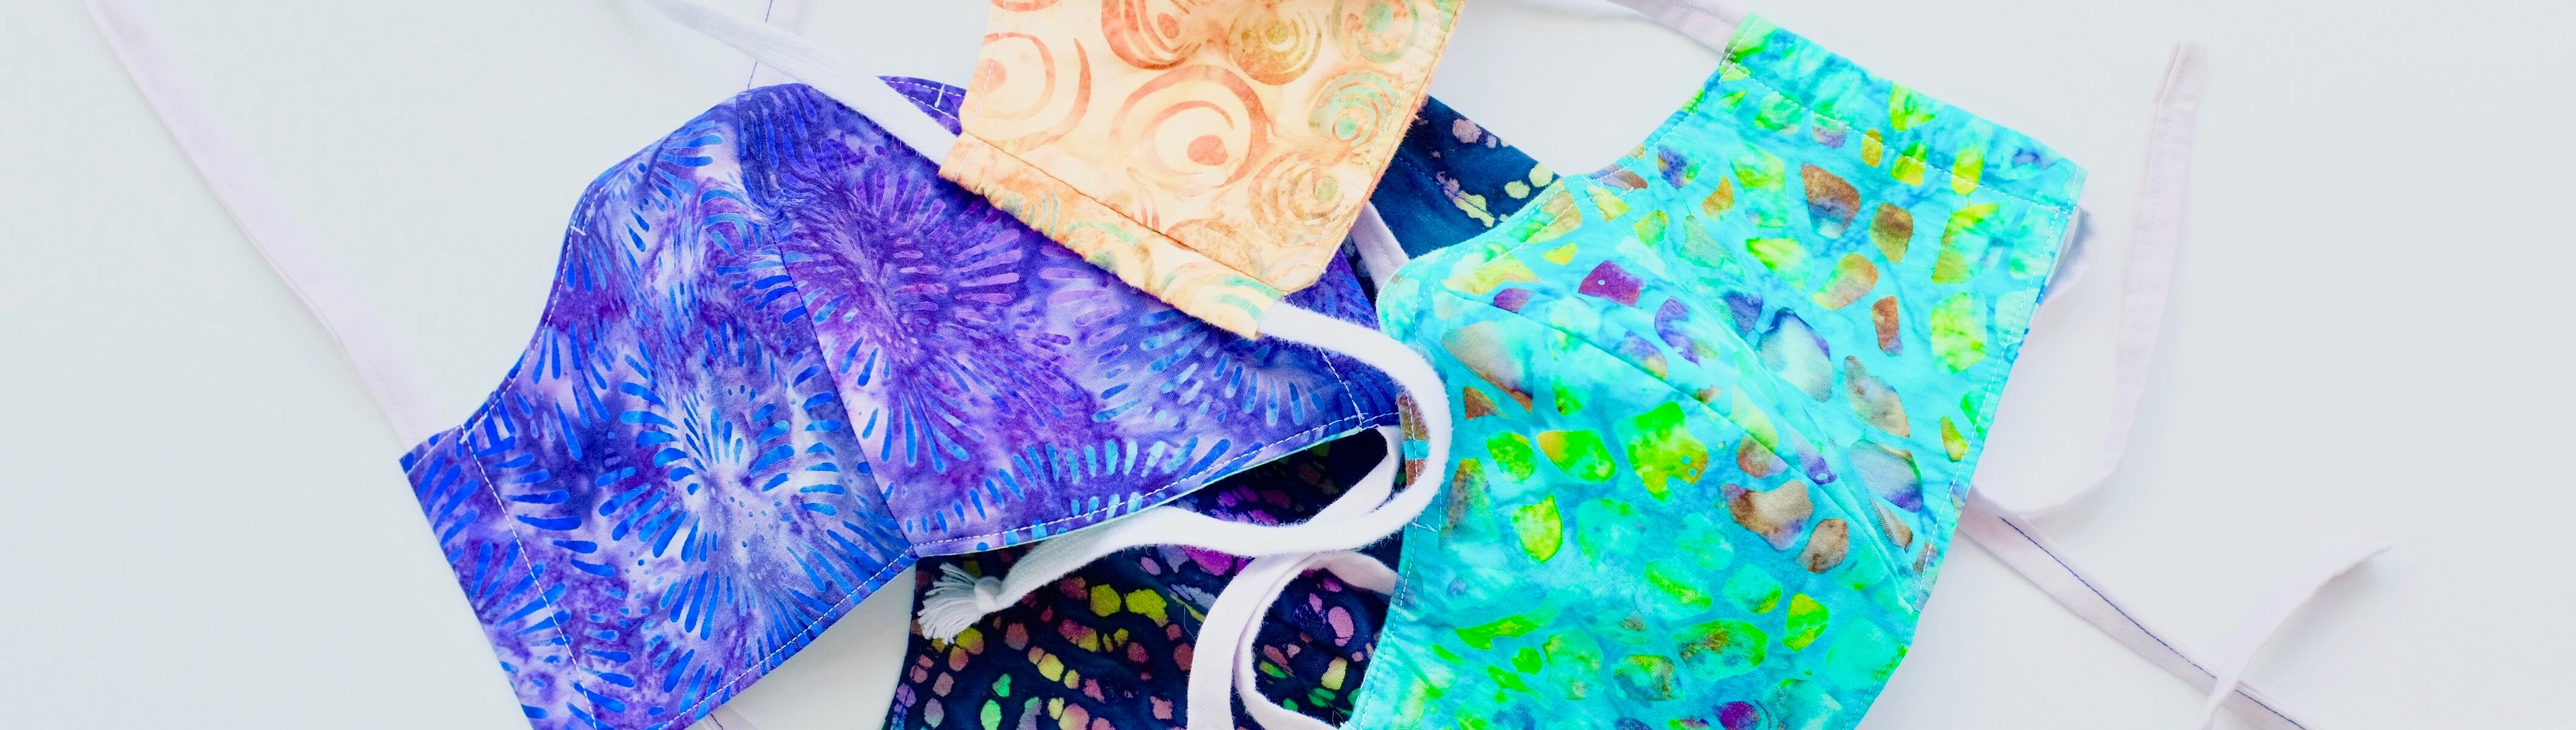
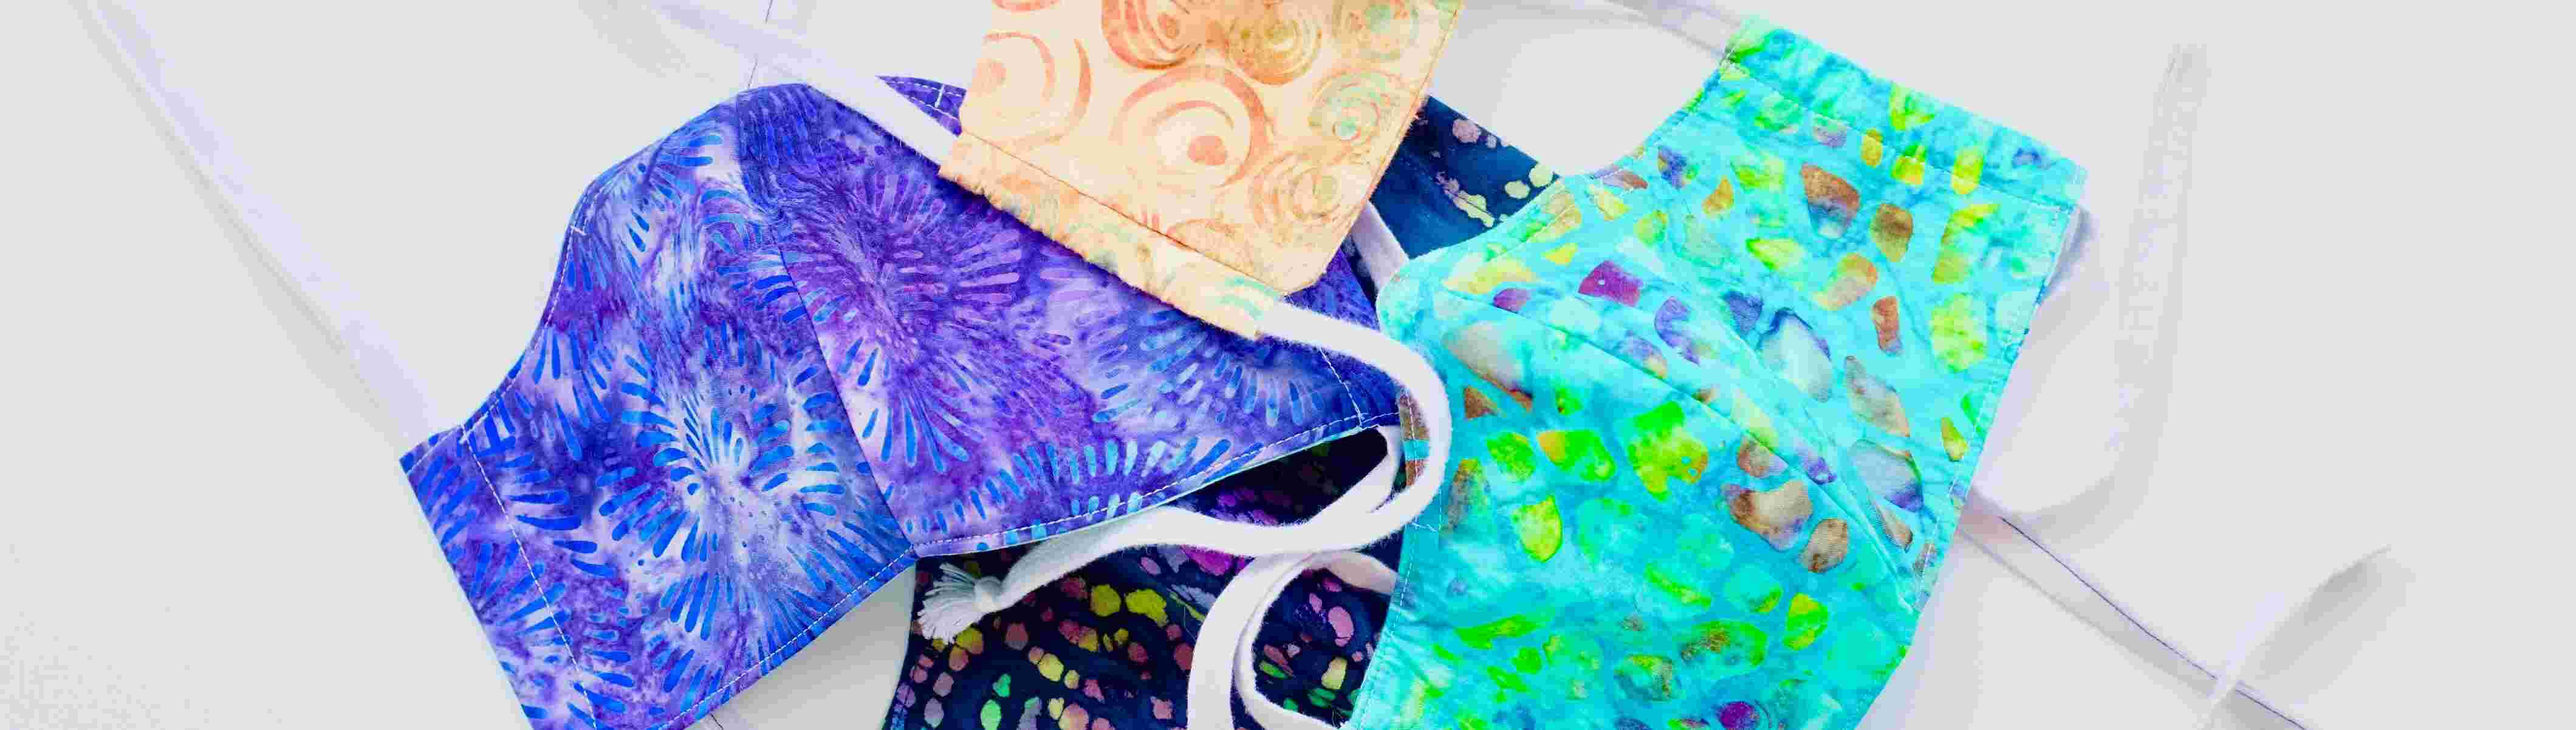
compressed images and added gzip/cache header

diff --git a/src/main/resources/templates/index.html b/src/main/resources/templates/index.html
@@ -16,7 +16,7 @@
                     <img th:src="@{/img/essential.png}" th:width="700" class="img-fluid p-2" alt="photo of text">
                 </div>
                 <div class="col-md m-1 bg-light text-center">
-                    <img th:src="@{/img/mask1.png}" th:width="700" class="img-fluid p-2" alt="photo of a mask">
+                    <img th:src="@{/img/mask1.jpg}" th:width="700" class="img-fluid p-2" alt="photo of a mask">
                 </div>
             </div>
         </div>
@@ -47,7 +47,7 @@
         <div class="container-fluid ">
             <div class="row m-1">
                 <div class="col-md m-1 bg-light text-center">
-                    <img th:src="@{/img/mask2.png}" th:width="700" class="img-fluid p-2" alt="photo of a mask">
+                    <img th:src="@{/img/mask2.jpg}" th:width="700" class="img-fluid p-2" alt="photo of a mask">
                 </div>
 
                 <div class="box1 col-md m-1">

diff --git a/src/main/resources/templates/success.html b/src/main/resources/templates/success.html
@@ -11,7 +11,7 @@
         <div class="container-fluid">
             <div class="row m-1 align-items-center">
                 <div class="bg-light col-md m-1 text-center">
-                    <img th:src="@{/img/mask_photo9.png}" th:width="700" class="img-fluid p-2" alt="photo of text">
+                    <img th:src="@{/img/mask_photo9.jpg}" th:width="700" class="img-fluid p-2" alt="photo of text">
                 </div>
 
                 <div class="col-md m-1 border border-light text-center">

diff --git a/src/main/resources/templates/login.html b/src/main/resources/templates/login.html
@@ -42,7 +42,7 @@
                 </div>
 
                 <div class="bg-light col-md m-1 text-center">
-                    <img th:src="@{/img/mask_photo6.png}" th:width="700" class="img-fluid p-2" alt="photo of text">
+                    <img th:src="@{/img/mask_photo6.jpg}" th:width="700" class="img-fluid p-2" alt="photo of text">
                 </div>
             </div>
         </div>

diff --git a/src/main/resources/templates/registration.html b/src/main/resources/templates/registration.html
@@ -48,7 +48,7 @@
                 </div>
 
                 <div class="bg-light col-md m-1 text-center">
-                    <img th:src="@{/img/mask_photo5.png}" th:width="700" class="img-fluid p-2" alt="photo of text">
+                    <img th:src="@{/img/mask_photo5.jpg}" th:width="700" class="img-fluid p-2" alt="photo of text">
                 </div>
             </div>
         </div>
